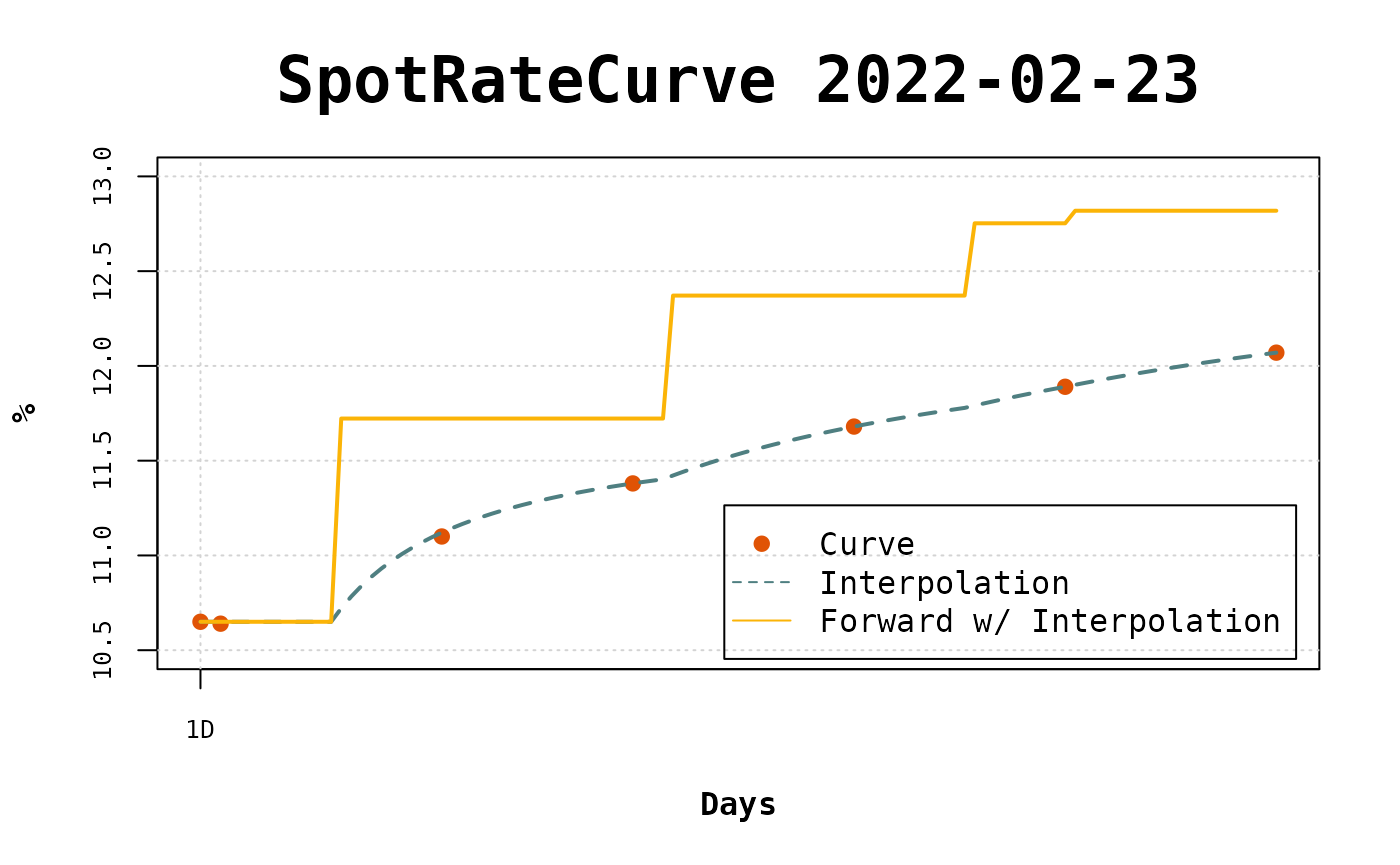
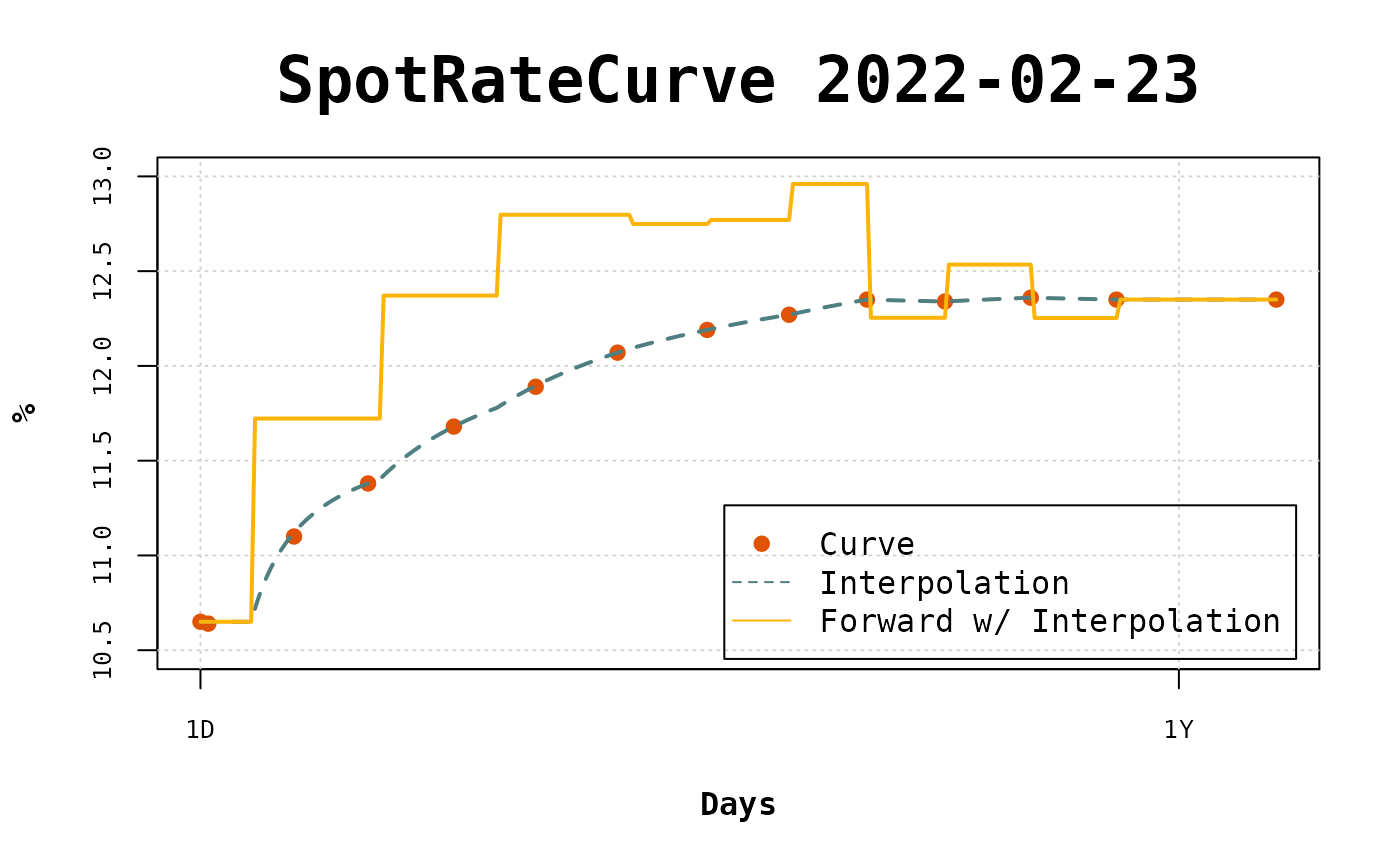
Built site for flatforwardCOPOM: 0.0.1@e3f4e33

diff --git a/articles/flatforwardCOPOM-pt.html b/articles/flatforwardCOPOM-pt.html
@@ -87,48 +87,40 @@
 <div class="section level2">
 <h2 id="introdução">Introdução<a class="anchor" aria-label="anchor" href="#introdu%C3%A7%C3%A3o"></a>
 </h2>
-<p>A estrutura a termo de juros prefixados utilizada no Brasil se apresenta em duas versões, a primeira é formada com base nos contratos futuros de Taxa DI (DI1) negociados na B3. A segunda versão pode ser extraída dos títulos públicos prefixados, negociados no Tesouro Direto e que têm preços de referência divulgados na ANBIMA. A versão mais utilizada é formada a partir dos contratos futuros de DI1. Dessa maneira, os vértices da curva correspondem aos vencimentos dos contratos futuros. O método de interpolação flat-forward é comumente utilizado para interpolar a curva de juros prefixados [REF], e a interpolação é realizada a partir dos vencimentos dos futuros. Entretanto, na parte curta da curva, referente ao curto prazo, dentro do primeiro ano, a dinâmica dos juros é determinada pelo Comitê de Política Monetária (COPOM). O COPOM reune-se periodicamente para definir o nível da taxa SELIC que por sua vez influencia a taxa DI, utilizada no mercado interbancário. Dessa maneira, é esperado que essa taxa de curto prazo mude de nível após as reuniões do Comitê. Contudo, aplicando a interpolação flat-forward a curva de juros com vencimentos dos futuros e calculando as taxas a termo diárias observa-se que as mudanças de nível nas taxas de juros ocorrem após cada vértice de vencimento de futuros. Logo, temos que, para o curto prazo, a interpolação cria um comportamento diferente do que é observado na prática. Assim, é necessário realizar a interpolação flat-forward, para a parte curta da curva, considerando as reuniões do COPOM, fazendo com que as taxas de juros a termo fiquem constante entre as reuniões.</p>
+<p>A estrutura a termo de juros prefixados utilizada no Brasil se apresenta em duas versões, a primeira é formada com base nos contratos futuros de Taxa DI (DI1) negociados na B3. A segunda versão pode ser extraída dos títulos públicos prefixados, negociados no Tesouro Direto e que têm preços de referência divulgados na ANBIMA. A versão mais utilizada é formada a partir dos contratos futuros de DI1. Dessa maneira, os vértices da curva correspondem aos vencimentos dos contratos futuros.</p>
+<p>O método de interpolação flat-forward <span class="citation">(Hagan and West 2006)</span> é comumente utilizado para interpolar a curva de juros prefixados, e a interpolação é realizada a partir dos vencimentos dos futuros. Entretanto, na parte curta da curva, referente ao curto prazo, dentro do primeiro ano, a dinâmica dos juros é determinada pelo Comitê de Política Monetária (COPOM).</p>
+<p>O COPOM reune-se periodicamente para definir o nível da taxa SELIC que por sua vez influencia a taxa DI, utilizada no mercado interbancário. Dessa maneira, é esperado que esta taxa de curto prazo mude de nível após as reuniões do Comitê. Contudo, aplicando a interpolação flat-forward a curva de juros com vencimentos dos futuros e calculando as taxas a termo diárias observa-se que as mudanças de nível nas taxas de juros, geradas pela interpolação, ocorrem após cada vértice de vencimento de futuros. Portanto, temos que, para o curto prazo, a interpolação cria um comportamento diferente do que é observado. Assim, é necessário realizar a interpolação flat-forward, para a parte curta da curva, considerando as reuniões do COPOM <span class="citation">(Carreira and Brostowicz Jr 2016)</span>, fazendo com que as taxas de juros a termo fiquem constante entre as reuniões.</p>
+<p>Vamos construir um exemplo com a curva de juros prefixados para a data de referência 23/02/2022. Neste exemplo vamos observar as taxas a termo e as datas de reunião do COPOM.</p>
 <div class="sourceCode" id="cb1"><pre class="downlit sourceCode r">
 <code class="sourceCode R"><span class="kw"><a href="https://rdrr.io/r/base/library.html" class="external-link">library</a></span><span class="op">(</span><span class="va"><a href="https://github.com/wilsonfreitas/R-fixedincome" class="external-link">fixedincome</a></span><span class="op">)</span>
 <span class="kw"><a href="https://rdrr.io/r/base/library.html" class="external-link">library</a></span><span class="op">(</span><span class="va"><a href="https://wilsonfreitas.github.io/flatforwardCOPOM/">flatforwardCOPOM</a></span><span class="op">)</span>
 
+<span class="va">refdate</span> <span class="op">&lt;-</span> <span class="fu"><a href="https://rdrr.io/r/base/as.Date.html" class="external-link">as.Date</a></span><span class="op">(</span><span class="st">"2022-02-23"</span><span class="op">)</span>
 <span class="va">terms</span> <span class="op">&lt;-</span> <span class="fu"><a href="https://rdrr.io/r/base/c.html" class="external-link">c</a></span><span class="op">(</span><span class="fl">1</span>, <span class="fl">3</span>, <span class="fl">25</span>, <span class="fl">44</span>, <span class="fl">66</span>, <span class="fl">87</span>, <span class="fl">108</span>, <span class="fl">131</span>, <span class="fl">152</span>, <span class="fl">172</span>, <span class="fl">192</span>, <span class="fl">214</span>, <span class="fl">236</span>, <span class="fl">277</span><span class="op">)</span>
 <span class="va">rates</span> <span class="op">&lt;-</span> <span class="fu"><a href="https://rdrr.io/r/base/c.html" class="external-link">c</a></span><span class="op">(</span>
   <span class="fl">0.1065</span>, <span class="fl">0.1064</span>, <span class="fl">0.111</span>, <span class="fl">0.1138</span>, <span class="fl">0.1168</span>, <span class="fl">0.1189</span>, <span class="fl">0.1207</span>, <span class="fl">0.1219</span>,
   <span class="fl">0.1227</span>, <span class="fl">0.1235</span>, <span class="fl">0.1234</span>, <span class="fl">0.1236</span>, <span class="fl">0.1235</span>, <span class="fl">0.1235</span>
 <span class="op">)</span>
-<span class="va">refdate</span> <span class="op">&lt;-</span> <span class="fu"><a href="https://rdrr.io/r/base/as.Date.html" class="external-link">as.Date</a></span><span class="op">(</span><span class="st">"2022-02-23"</span><span class="op">)</span>
 <span class="va">curve</span> <span class="op">&lt;-</span> <span class="fu"><a href="https://rdrr.io/pkg/fixedincome/man/spotratecurve.html" class="external-link">spotratecurve</a></span><span class="op">(</span>
   <span class="va">rates</span>, <span class="va">terms</span>, <span class="st">"discrete"</span>, <span class="st">"business/252"</span>, <span class="st">"Brazil/ANBIMA"</span>,
   refdate <span class="op">=</span> <span class="va">refdate</span>
 <span class="op">)</span>
-<span class="fu"><a href="https://rdrr.io/r/base/as.data.frame.html" class="external-link">as.data.frame</a></span><span class="op">(</span><span class="va">curve</span><span class="op">)</span></code></pre></div>
-<pre><code><span class="co">##       terms      dates                                      rates</span>
-<span class="co">## 1     1 day 2022-02-24 0.1065 discrete business/252 Brazil/ANBIMA</span>
-<span class="co">## 2    3 days 2022-03-02 0.1064 discrete business/252 Brazil/ANBIMA</span>
-<span class="co">## 3   25 days 2022-04-01 0.1110 discrete business/252 Brazil/ANBIMA</span>
-<span class="co">## 4   44 days 2022-05-02 0.1138 discrete business/252 Brazil/ANBIMA</span>
-<span class="co">## 5   66 days 2022-06-01 0.1168 discrete business/252 Brazil/ANBIMA</span>
-<span class="co">## 6   87 days 2022-07-01 0.1189 discrete business/252 Brazil/ANBIMA</span>
-<span class="co">## 7  108 days 2022-08-01 0.1207 discrete business/252 Brazil/ANBIMA</span>
-<span class="co">## 8  131 days 2022-09-01 0.1219 discrete business/252 Brazil/ANBIMA</span>
-<span class="co">## 9  152 days 2022-10-03 0.1227 discrete business/252 Brazil/ANBIMA</span>
-<span class="co">## 10 172 days 2022-11-01 0.1235 discrete business/252 Brazil/ANBIMA</span>
-<span class="co">## 11 192 days 2022-12-01 0.1234 discrete business/252 Brazil/ANBIMA</span>
-<span class="co">## 12 214 days 2023-01-02 0.1236 discrete business/252 Brazil/ANBIMA</span>
-<span class="co">## 13 236 days 2023-02-01 0.1235 discrete business/252 Brazil/ANBIMA</span>
-<span class="co">## 14 277 days 2023-04-03 0.1235 discrete business/252 Brazil/ANBIMA</span></code></pre>
-<div class="sourceCode" id="cb3"><pre class="downlit sourceCode r">
-<code class="sourceCode R"><span class="va">dates</span> <span class="op">&lt;-</span> <span class="fu"><a href="../reference/get_copom_dates.html">get_copom_dates</a></span><span class="op">(</span><span class="va">refdate</span><span class="op">)</span>
-<span class="va">du</span> <span class="op">&lt;-</span> <span class="fu"><a href="https://rdrr.io/pkg/bizdays/man/bizdays.html" class="external-link">bizdays</a></span><span class="op">(</span><span class="va">refdate</span>, <span class="va">dates</span>, <span class="st">"Brazil/ANBIMA"</span><span class="op">)</span>
-<span class="fu"><a href="https://rdrr.io/r/graphics/plot.default.html" class="external-link">plot</a></span><span class="op">(</span><span class="va">curve</span>, show_forward <span class="op">=</span> <span class="cn">TRUE</span>, legend_location <span class="op">=</span> <span class="fl">0</span><span class="op">)</span>
-<span class="fu"><a href="https://rdrr.io/r/graphics/abline.html" class="external-link">abline</a></span><span class="op">(</span>v <span class="op">=</span> <span class="va">du</span>, lty <span class="op">=</span> <span class="st">"dashed"</span>, lwd <span class="op">=</span> <span class="fl">2</span>, col <span class="op">=</span> <span class="st">"#08d37eb6"</span><span class="op">)</span></code></pre></div>
+<span class="fu"><a href="https://rdrr.io/pkg/fixedincome/man/interpolation.html" class="external-link">interpolation</a></span><span class="op">(</span><span class="va">curve</span><span class="op">)</span> <span class="op">&lt;-</span> <span class="fu"><a href="https://rdrr.io/pkg/fixedincome/man/interpolation-constructor.html" class="external-link">interp_flatforward</a></span><span class="op">(</span><span class="op">)</span></code></pre></div>
+<p>Aqui criamos a curva e abaixo construímos o gráfico com as taxas de juros diários a termo (linha azul) e destacamos as datas de reunião (linha pontilhada em vermelho).</p>
+<div class="sourceCode" id="cb2"><pre class="downlit sourceCode r">
+<code class="sourceCode R"><span class="va">fwd_curve</span> <span class="op">&lt;-</span> <span class="va">curve</span><span class="op">[[</span><span class="fl">1</span><span class="op">:</span><span class="fl">277</span><span class="op">]</span><span class="op">]</span> |&gt; <span class="fu"><a href="https://rdrr.io/pkg/fixedincome/man/forwardrate.html" class="external-link">forwardrate</a></span><span class="op">(</span><span class="op">)</span>
+<span class="fu"><a href="https://rdrr.io/r/graphics/plot.default.html" class="external-link">plot</a></span><span class="op">(</span><span class="fl">1</span><span class="op">:</span><span class="fl">277</span>, <span class="va">fwd_curve</span> <span class="op">*</span> <span class="fl">100</span>, type <span class="op">=</span> <span class="st">"l"</span>, col <span class="op">=</span> <span class="st">"blue"</span>,
+     xlab <span class="op">=</span> <span class="st">""</span>, ylab <span class="op">=</span> <span class="st">""</span>, main <span class="op">=</span> <span class="st">"Curva de Juros Diários a Termo"</span><span class="op">)</span>
+<span class="va">dates</span> <span class="op">&lt;-</span> <span class="fu"><a href="../reference/get_copom_dates.html">get_copom_dates</a></span><span class="op">(</span><span class="va">refdate</span><span class="op">)</span>
+<span class="va">copom_du</span> <span class="op">&lt;-</span> <span class="fu"><a href="https://rdrr.io/pkg/bizdays/man/bizdays.html" class="external-link">bizdays</a></span><span class="op">(</span><span class="va">refdate</span>, <span class="va">dates</span>, <span class="st">"Brazil/ANBIMA"</span><span class="op">)</span>
+<span class="fu"><a href="https://rdrr.io/r/graphics/abline.html" class="external-link">abline</a></span><span class="op">(</span>v <span class="op">=</span> <span class="va">copom_du</span>, lty <span class="op">=</span> <span class="st">"dashed"</span>, col <span class="op">=</span> <span class="st">"red"</span><span class="op">)</span></code></pre></div>
 <p><img src="flatforwardCOPOM-pt_files/figure-html/unnamed-chunk-1-1.png" width="700"></p>
-<div class="sourceCode" id="cb4"><pre class="downlit sourceCode r">
-<code class="sourceCode R"><span class="va">curve</span> <span class="op">&lt;-</span> <span class="fu"><a href="https://rdrr.io/pkg/fixedincome/man/spotratecurve-helpers.html" class="external-link">first</a></span><span class="op">(</span><span class="va">curve</span>, <span class="st">"6 months"</span><span class="op">)</span>
-<span class="fu"><a href="https://rdrr.io/r/graphics/plot.default.html" class="external-link">plot</a></span><span class="op">(</span><span class="va">curve</span>, show_forward <span class="op">=</span> <span class="cn">TRUE</span>, legend_location <span class="op">=</span> <span class="fl">0</span><span class="op">)</span>
-<span class="fu"><a href="https://rdrr.io/r/graphics/abline.html" class="external-link">abline</a></span><span class="op">(</span>v <span class="op">=</span> <span class="va">du</span>, lty <span class="op">=</span> <span class="st">"dashed"</span>, lwd <span class="op">=</span> <span class="fl">2</span>, col <span class="op">=</span> <span class="st">"#08d37eb6"</span><span class="op">)</span></code></pre></div>
-<p><img src="flatforwardCOPOM-pt_files/figure-html/unnamed-chunk-2-1.png" width="700"></p>
+<p>No gráfico observasse que as mudanças de nível das taxas a termo ocorrem entre duas reuniões, o que sabemos que não ser o comportamento esperado para taxas no curto prazo.</p>
+<p>Dessa maneira buscam-se formas de realizar uma interpolação que, na parte curta da curva, as taxas a termo apresentem mudança de nível apenas nas reuniões do comitê.</p>
+<p>Vamos considerar as reuniões que acontecem no horizonte de um ano nesta abordagem, e dado que estas reuniões acontecem a cada 45 dias, aproximadamente, teremos 8 reuniões em média neste intervalo.</p>
+<p>Esta metodologia foi abordada em <span class="citation">(Carreira and Brostowicz Jr 2016)</span>, onde os contratos futuros são considerados da curva de juros a interpolação considerando as reuniões se baseia nas relações de não arbitragem das taxas a termo e <span class="citation">(Varga 2020)</span> utiliza contratos de títulos públicos prefixados em um processo de otimização que visa minimizar o erro no apreçamento destes contratos utilizando uma estrutura a termo que apresenta mudança de nível nas reuniões.</p>
+<p>O objetivo aqui é trazer a implementação destas abordagens, trazendo a luz as peculiaridades que se apresentam e as eventuais alternativas para contorná-las.</p>
+<p>Na próxima sessão será apresentada a metodologia de interpolação <em>flat-forward</em> considerando as reuniões do COPOM, os casos particulares e as alternativas de solução. A sessão seguinte aborda o processo que minimiza do erro de apreçamento dos títulos públicos e adicionalmente submete-se a este processo os contratos futuros, com o objetivo de comparar com a metodologia anterior. No fim temos a comparação dos resultados das diferentes abordagens e a conclusão.</p>
 <p>It attachs <code>bizdays</code> and <code>fixedincome</code>.</p>
 </div>
 <div class="section level2">
@@ -142,7 +134,7 @@
 </h2>
 <p>Now we have a curve, we define the interpolation method by creating an <code>Interpolation</code> object with the function <code>interp_flatforwardcopom</code>. We pass a vector with the dates of the meetings to be used in the interpolation and set <code>conflicts = "second"</code>. There are periods between meetings that have two points and, in this cases, the second point will be used in the interpolation.</p>
 <p>Once the Interpolation object is created, it is set to the curve with the <code>interpolation&lt;-</code> method.</p>
-<div class="sourceCode" id="cb5"><pre class="downlit sourceCode r">
+<div class="sourceCode" id="cb3"><pre class="downlit sourceCode r">
 <code class="sourceCode R"><span class="va">copom_dates</span> <span class="op">&lt;-</span> <span class="fu"><a href="https://rdrr.io/r/base/as.Date.html" class="external-link">as.Date</a></span><span class="op">(</span>
   <span class="fu"><a href="https://rdrr.io/r/base/c.html" class="external-link">c</a></span><span class="op">(</span><span class="st">"2022-03-17"</span>, <span class="st">"2022-05-05"</span>, <span class="st">"2022-06-17"</span>, <span class="st">"2022-08-04"</span><span class="op">)</span>
 <span class="op">)</span>
@@ -152,21 +144,36 @@
 <h2 id="visualize-the-interpolation">Visualize the interpolation<a class="anchor" aria-label="anchor" href="#visualize-the-interpolation"></a>
 </h2>
 <p>With everything set the curve can be easily viewed with <code>plot</code>.</p>
-<div class="sourceCode" id="cb6"><pre class="downlit sourceCode r">
+<div class="sourceCode" id="cb4"><pre class="downlit sourceCode r">
 <code class="sourceCode R"><span class="fu"><a href="https://rdrr.io/r/graphics/plot.default.html" class="external-link">plot</a></span><span class="op">(</span><span class="va">curve</span>,
   use_interpolation <span class="op">=</span> <span class="cn">TRUE</span>, show_forward <span class="op">=</span> <span class="cn">TRUE</span>,
   legend_location <span class="op">=</span> <span class="st">"bottomright"</span>
 <span class="op">)</span></code></pre></div>
 <p><img src="flatforwardCOPOM-pt_files/figure-html/plot-1.png" width="700"></p>
 <p>To compare with the flat forward interpolation let’s visualize the curve with this different intepolation.</p>
-<div class="sourceCode" id="cb7"><pre class="downlit sourceCode r">
+<div class="sourceCode" id="cb5"><pre class="downlit sourceCode r">
 <code class="sourceCode R"><span class="fu"><a href="https://rdrr.io/pkg/fixedincome/man/interpolation.html" class="external-link">interpolation</a></span><span class="op">(</span><span class="va">curve</span><span class="op">)</span> <span class="op">&lt;-</span> <span class="fu"><a href="https://rdrr.io/pkg/fixedincome/man/interpolation-constructor.html" class="external-link">interp_flatforward</a></span><span class="op">(</span><span class="op">)</span>
 <span class="fu"><a href="https://rdrr.io/r/graphics/plot.default.html" class="external-link">plot</a></span><span class="op">(</span><span class="va">curve</span>,
   use_interpolation <span class="op">=</span> <span class="cn">TRUE</span>, show_forward <span class="op">=</span> <span class="cn">TRUE</span>,
   legend_location <span class="op">=</span> <span class="st">"bottomright"</span>
 <span class="op">)</span></code></pre></div>
-<p><img src="flatforwardCOPOM-pt_files/figure-html/unnamed-chunk-4-1.png" width="700"></p>
+<p><img src="flatforwardCOPOM-pt_files/figure-html/unnamed-chunk-3-1.png" width="700"></p>
 <p>In the long term there isn’t mush difference, but in the short term the interpolated points and the forward rates are fairly different.</p>
+</div>
+<div class="section level2 unnumbered">
+<h2 id="referências">Referências<a class="anchor" aria-label="anchor" href="#refer%C3%AAncias"></a>
+</h2>
+<div id="refs" class="references">
+<div id="ref-carreira2016brazilian">
+<p>Carreira, Marcos CS, and Richard J Brostowicz Jr. 2016. <em>Brazilian Derivatives and Securities: Pricing and Risk Management of Fx and Interest-Rate Portfolios for Local and Global Markets</em>. Springer.</p>
+</div>
+<div id="ref-hagan2006interpolation">
+<p>Hagan, Patrick S, and Graeme West. 2006. “Interpolation Methods for Curve Construction.” <em>Applied Mathematical Finance</em> 13 (2): 89–129.</p>
+</div>
+<div id="ref-varga2020fitting">
+<p>Varga, Gyorgy. 2020. “On the Fitting of the Term Structure Short-End.” <a href="https://www.youtube.com/watch?v=YfQ9hBlcGxk" class="external-link">https://www.youtube.com/watch?v=YfQ9hBlcGxk</a>.</p>
+</div>
+</div>
 </div>
   </div>
 
